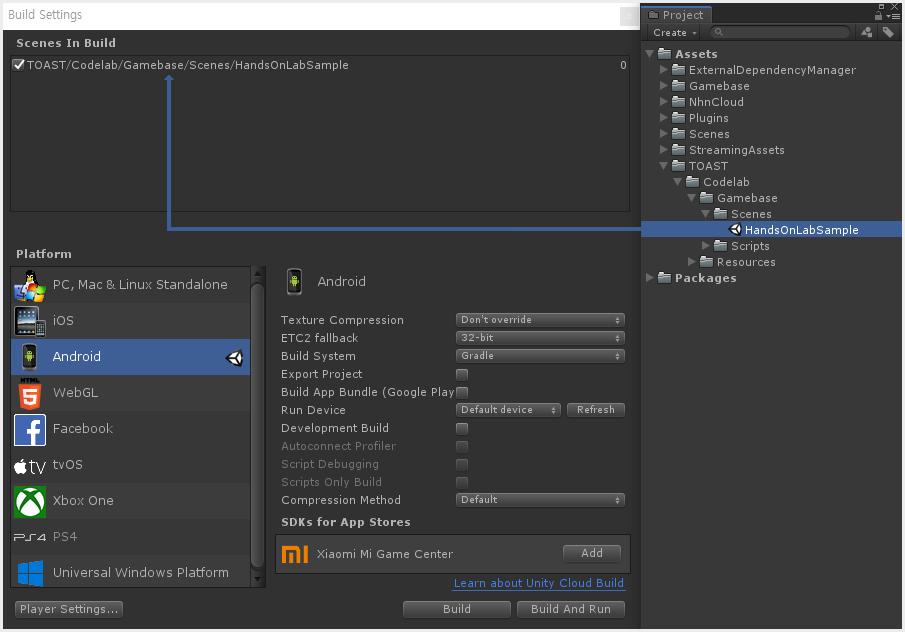
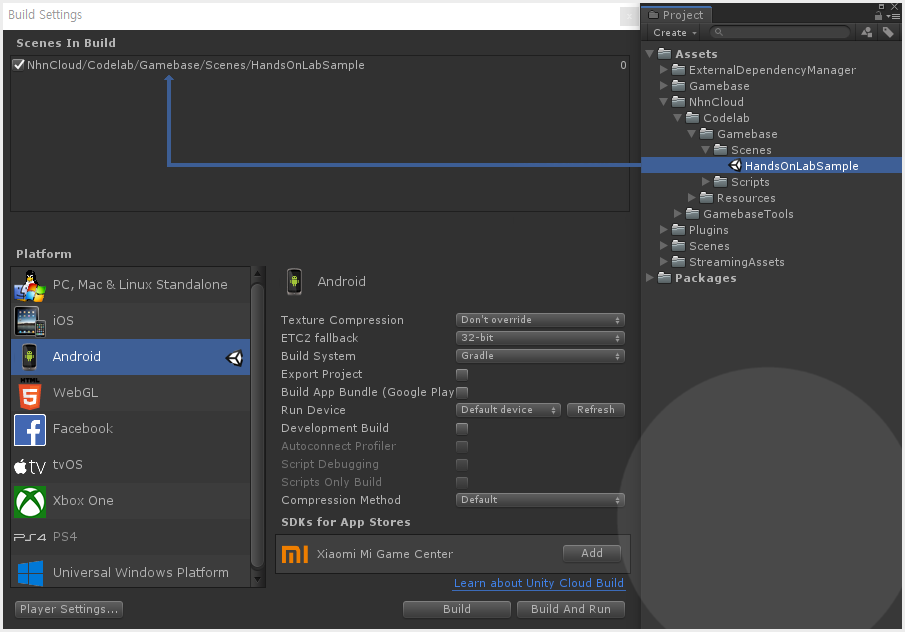
[NHN-FORWARD-웹사이트(기획-개발-디자인)/260] Rename from Toast to NhnCloud in Sample

Changed region(s): [[0.1856, 0.1804, 1.0, 0.4209], [0.0309, 0.0902, 0.4022, 0.1203]]

diff --git a/site/06.rst b/site/06.rst
@@ -17,7 +17,7 @@ NHN Cloud Console 에서 App ID와 App Version 확인
 Initialize
 =========================
 
-1. **Assets/TOAST/Codelab/Gamebase/Scripts/HandsOnLab/UserImplementation.cs** 파일 열기
+1. **Assets/NhnCloud/Codelab/Gamebase/Scripts/HandsOnLab/UserImplementation.cs** 파일 열기
 2. Initialize() 메서드 수정
 
 .. code-block:: C#

diff --git a/site/04.rst b/site/04.rst
@@ -27,7 +27,7 @@ Android 플랫폼 설정
 
     * Company Name: 회사 이름을 입력합니다. (ex: nhn)
     * Product Name: HandsOnLab
-    * Default Icon: Assets/TOAST/Codelab/Resources/Images/Icon/icon.png
+    * Default Icon: Assets/NhnCloud/Codelab/Resources/Images/Icon/icon.png
   
     .. image:: _static/image/unity_player_settings.png
 

diff --git a/site/03.rst b/site/03.rst
@@ -20,7 +20,7 @@ Unity Package 다운로드
 
 2. Scene 열기
 
-  * **Assets > TOAST > Codelab > Gamebase > Scenes > HandsOnLabSample.scene**
+  * **Assets > NhnCloud > Codelab > Gamebase > Scenes > HandsOnLabSample.scene**
 
     .. image:: _static/image/unity_sample_scene.png
 
